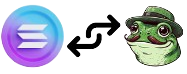
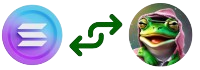
responsive changes 02

diff --git a/components/custom/Hero.tsx b/components/custom/Hero.tsx
@@ -6,65 +6,56 @@ import CopyToClipboardButton from "./CopyToClipboard";
 import { exchangePlatforms, socialMedia } from "@/data";
 
 const Hero = () => {
-    return (
-        <section
-            className="w-full sm:pb-20 sm:pt-28 flex flex-col sm:flex-row justify-center  gap-5 items-center h-screen"
-            id="about"
-        >
-            <div
-                className=" h-[calc(100vh+320px)] sm:h-screen w-full dark:bg-[#006400] bg-white dark:bg-grid-white/[0.03] bg-grid-black-100/[0.2]
+  return (
+    <section
+      className="w-full pt-16 sm:pb-20 sm:pt-0 xl:pt-20 flex flex-col sm:flex-row justify-center gap-5 items-center overflow-visible"
+      id="about"
+    >
+      <div
+        className=" h-[calc(100vh+24rem)] sm:h-screen w-full dark:bg-[#006400] bg-white dark:bg-grid-white/[0.03] bg-grid-black-100/[0.2]
        absolute top-0 left-0 flex items-center justify-center"
-            >
-                {/* Radial gradient for the container to give a faded look */}
-                <div className="absolute pointer-events-none inset-0 flex items-center justify-center dark:bg-black bg-white [mask-image:radial-gradient(ellipse_at_left,transparent_20%,white)]" />
-            </div>
-            <div id="header-content" className="flex-1 sm:flex-[0.5] lg:flex-1">
-                {/* SpotLights */}
-                {/* <div>
-                    <Spotlight className='-top-40 right-0 md:-right-[40rem] md:top-20 h-screen' fill='white' />
-                    <Spotlight className='top-10 -right-[40rem] h-[40vh] w-[50vw]' fill='white' />
-                    <Spotlight className='top-28 -right-[40rem] h-[40vh] w-[50vw]' fill='white' />
-                </div>
-                <div>
-                    <Spotlight className='-top-40 right-0 md:-right-[70rem] md:top-20 h-screen' spotlightClassname='rotate-90 origin-center' fill='white' />
-                    <Spotlight className='top-10 -right-[70rem] h-[40vh] w-[50vw]' spotlightClassname='rotate-90 origin-center' fill='white' />
-                    <Spotlight className='top-28 -right-[70rem] h-[40vh] w-[40vw]' spotlightClassname='rotate-90 origin-center' fill='white' />
-                </div> */}
-
-                <div className="flex  justify-center relative mt-20 mb-10 w-full px-3">
-                    <div className=" w-full sm:max-w-[89vw] md:max-w-2xl lg:max-w-[60vw] flex flex-col items-center sm:items-start justify-center ">
-                        <TextGenerateEffect
-                            className="text-center sm:text-left text-3xl sm:text-[40px] md:text-5xl lg:text-5xl"
-                            words="The End of Dog, Fox, and Cat Coins. PepeRama is Here to Rule."
-                        />
-                        <p className="text-center sm:text-left md:tracking-wider mb-4 text-lg md:text-lg lg:text-2xl">
-                            Forget the pets of the past—PepeRama is taking over the crypto
-                            jungle.
-                        </p>
-                        <CopyToClipboardButton content="somepasskeytocopy" />
-                        <div className="mt-4 ">
-                            <div className="icons-container flex flex-col sm:flex-row items-center gap-3 lg:gap-6 px-5 py-3 md:px-0 lg:px-0">
-                                {exchangePlatforms.map((profile) => (
-                                    <button
-                                        key={profile.id}
-                                        className="w-full  flex items-center justify-between gap-6 px-7 py-1 rounded-full bg-[#1ED760] font-bold text-white tracking-widest uppercase transform hover:scale-105 hover:bg-[#21e065] transition-colors duration-200"
-                                    >
-                                        <p className="text-sm">{profile.name}</p>
-                                        <div className="relative w-10 aspect-square">
-                                            <Image src={profile.img} alt={profile.img} fill />
-                                        </div>
-                                    </button>
-                                ))}
-                            </div>
-                        </div>
+      >
+        {/* Radial gradient for the container to give a faded look */}
+        <div className="absolute pointer-events-none inset-0 flex items-center justify-center dark:bg-black bg-white [mask-image:radial-gradient(ellipse_at_left,transparent_20%,white)]" />
+      </div>
+      <div id="header-content" className="flex-[0.6] sm:flex-[0.5] lg:flex-1">
+        <div className="flex justify-center relative sm:pt-16 w-full px-3">
+          <div className=" w-full sm:max-w-[89vw] md:max-w-2xl lg:max-w-[60vw] flex flex-col items-center sm:items-start justify-center ">
+            <TextGenerateEffect
+              className="text-center sm:text-left text-3xl sm:text-[40px] md:text-5xl lg:text-5xl xl:text-6xl"
+              words="The End of Dog, Fox, and Cat Coins. PepeRama is Here to Rule."
+            />
+            <p className="text-center sm:text-left md:tracking-wider mb-4 text-lg md:text-lg lg:text-2xl xl:text-4xl">
+              Forget the pets of the past—PepeRama is taking over the crypto
+              jungle.
+            </p>
+            <CopyToClipboardButton content="somepasskeytocopy" />
+            <div className="mt-4 ">
+              <div className="icons-container flex flex-col sm:flex-row items-center gap-3 lg:gap-6 px-5 py-3 md:px-0 lg:px-0">
+                {exchangePlatforms.map((profile) => (
+                  <button
+                    key={profile.id}
+                    className="w-full  flex items-center justify-between gap-6 px-7 py-1 rounded-full bg-[#1ED760] font-bold text-white tracking-widest uppercase transform hover:scale-105 hover:bg-[#21e065] transition-colors duration-200"
+                  >
+                    <p className="text-sm">{profile.name}</p>
+                    <div className="relative w-10 aspect-square">
+                      <Image src={profile.img} alt={profile.img} fill />
                     </div>
-                </div>
+                  </button>
+                ))}
+              </div>
             </div>
-            <div id="header-coin-img" className="relative m-3 flex-1 aspect-square sm:h-3/4 lg:flex-1 lg:aspect-[9/16]">
-                <Image id="coin-img" alt="peperama coin" src="/peperama.jpg" fill />
-            </div>
-        </section>
-    );
+          </div>
+        </div>
+      </div>
+      <div
+        id="header-coin-img"
+        className="relative w-full m-auto max-w-80 h-96 lg:h-[400px] xl:max-w-96 xl:h-[500px] "
+      >
+        <Image id="coin-img" alt="peperama coin" src="/peperama.jpg" fill />
+      </div>
+    </section>
+  );
 };
 
 export default Hero;

diff --git a/components/custom/ApproachUs.tsx b/components/custom/ApproachUs.tsx
@@ -4,14 +4,15 @@ import React from "react";
 import { AnimatePresence, motion } from "framer-motion";
 import { CanvasRevealEffect } from "@/components/ui/canvas-reveal-effect";
 import Image from "next/image";
+import { cn } from "@/utils/cn";
 
 const ApproachUs = () => {
   return (
     <section className="w-full py-20 ">
-      <h1 className="heading !text-[4rem]">
+      <h1 className="heading">
         How <span className="text-[#006400]">To Buy?</span>
       </h1>
-      <div className="py-20 flex flex-col lg:flex-row items-center justify-center gap-4">
+      <div className="py-10 flex flex-col lg:flex-row items-center justify-center gap-10">
         <Card
           title="Create a Wallet"
           icon={<AceternityIcon icon="/phantomLogo.png" />}
@@ -37,7 +38,7 @@ const ApproachUs = () => {
         </Card>
         <Card
           title="Switch SOL for PPM"
-          icon={<AceternityIcon icon="/swapImg.png" />}
+          icon={<AceternityIcon icon="/swap.png" className="w-40 h-20" />}
           description="switch SOL for PPM. We have ZERO taxes so you don’t need to worry about buying with a specific slippage, although you may need to use slippage during times of market volatility."
         >
           <CanvasRevealEffect
@@ -66,7 +67,7 @@ const Card = ({
     <div
       onMouseEnter={() => setHovered(true)}
       onMouseLeave={() => setHovered(false)}
-      className="border border-black/[0.2] group/canvas-card flex items-center justify-center dark:border-white/[0.2]  max-w-sm w-full mx-auto p-4 relative h-[30rem] lg:w-[35rem] rounded-3xl"
+      className="border border-black/[0.2] group/canvas-card flex items-center justify-center dark:border-white/[0.2]  max-w-sm w-full mx-auto p-4 relative h-[24rem] md:h-[30rem] lg:w-[35rem] rounded-3xl"
     >
       <Icon className="absolute h-6 w-6 -top-3 -left-3 dark:text-white text-black" />
       <Icon className="absolute h-6 w-6 -bottom-3 -left-3 dark:text-white text-black" />
@@ -86,7 +87,7 @@ const Card = ({
       </AnimatePresence>
 
       <div className="relative z-20">
-        <div className="text-center group-hover/canvas-card:-translate-y-4 absolute top-1/2 left-1/2 -translate-x-1/2 -translate-y-1/2 group-hover/canvas-card:opacity-0 transition duration-200 w-16  mx-auto flex items-center justify-center">
+        <div className="text-center group-hover/canvas-card:-translate-y-4 absolute top-1/2 left-1/2 -translate-x-1/2 -translate-y-1/2 group-hover/canvas-card:opacity-0 transition duration-200 w-auto  mx-auto flex items-center justify-center">
           {icon}
         </div>
         <h2 className="dark:text-white opacity-0 group-hover/canvas-card:opacity-100 relative z-10 text-black mt-4  font-bold group-hover/canvas-card:text-white group-hover/canvas-card:-translate-y-2 transition duration-200 text-center text-3xl">
@@ -102,14 +103,14 @@ const Card = ({
 
 export default ApproachUs;
 
-const AceternityIcon = ({ order, icon }: { order?: string, icon: string }) => {
+const AceternityIcon = ({ order, icon, className }: { order?: string, icon: string, className?: string }) => {
   return (
     <div>
       <button className="relative inline-flex h-60  overflow-hidden rounded-full p-[1px] focus:outline-none focus:ring-2 focus:ring-slate-400 focus:ring-offset-2 focus:ring-offset-slate-50">
 
         {/* <span className="absolute inset-[-1000%] animate-[spin_2s_linear_infinite] bg-[conic-gradient(from_90deg_at_50%_50%,#E2CBFF_0%,#393BB2_50%,#E2CBFF_100%)]" /> */}
         <div className="inline-flex h-full w-full cursor-pointer items-center justify-center rounded-full font-bold text-white backdrop-blur-3xl text-2xl p-3 capitalize">
-          <div className="relative w-20 h-20">
+          <div className={cn("relative w-20 h-20", className)}>
             <Image alt="icon" src={icon} fill />
           </div>
           {order}

diff --git a/components/custom/Navbar.tsx b/components/custom/Navbar.tsx
@@ -3,45 +3,48 @@ import React, { useState } from "react";
 import { HoveredLink, Menu } from "../ui/navbar-menu";
 import { cn } from "@/utils/cn";
 import Image from "next/image";
-import Logo from "@/public/peperama.jpg";
+import Logo from "@/public/icon.png";
 import { socialMedia } from "@/data";
+import Link from "next/link";
 
 export default function Navbar() {
-    return (
-        <div className="relative w-full flex items-center justify-center">
-            <NavbarC className="top-2 w-[95%]" />
-        </div>
-    );
+  return (
+    <div className="relative w-full flex items-center justify-center">
+      <NavbarC className="top-2 w-[95%]" />
+    </div>
+  );
 }
 
 function NavbarC({ className }: { className?: string }) {
-    const [active, setActive] = useState<string | null>(null);
-    return (
-        <div
-            className={cn(
-                "fixed top-4 inset-x-0 w-full max-w-2xl mx-auto z-50",
-                className
-            )}
-        >
-            <Menu setActive={setActive}>
-                <div id="left" className="flex items-center justify-center gap-3">
-                    <div className="brand-logo mr-3 sm:mr-8 w-6 sm:w-8 aspect-square">
-                        <Image alt="logo" src={Logo} />
-                    </div>
-                    <HoveredLink href="#">Buy</HoveredLink>
-                    <HoveredLink href="#">Chart</HoveredLink>
-                </div>
-                <div id="right" className="flex items-center gap-3 sm:gap-4 lg:gap-6">
-                    {socialMedia.map((profile) => (
-                        <div
-                            key={profile.id}
-                            className="relative w-8 sm:w-10 aspect-square cursor-pointer flex justify-center items-center backdrop-filter backdrop-blur-lg saturate-150 bg-opacity-75 bg-black-200 rounded-lg border border-black-300"
-                        >
-                            <Image src={profile.img} alt={profile.img} fill />
-                        </div>
-                    ))}
-                </div>
-            </Menu>
+  const [active, setActive] = useState<string | null>(null);
+  return (
+    <div
+      className={cn(
+        "fixed top-4 inset-x-0 w-full max-w-2xl mx-auto z-50",
+        className
+      )}
+    >
+      <Menu setActive={setActive}>
+        <div id="left" className="flex items-center justify-center gap-3">
+          <div className="brand-logo mr-3 sm:mr-8 w-6 sm:w-8 aspect-square">
+            <Image alt="logo" src={Logo} />
+          </div>
+          <HoveredLink href="#">Buy</HoveredLink>
+          <HoveredLink href="#">Chart</HoveredLink>
         </div>
-    );
+        <div id="right" className="flex items-center gap-3 sm:gap-4 lg:gap-6">
+          {socialMedia.map((profile) => (
+            <div
+              key={profile.id}
+              className="relative w-8 sm:w-10 aspect-square cursor-pointer flex justify-center items-center backdrop-filter backdrop-blur-lg saturate-150 bg-opacity-75 bg-black-200 rounded-lg border border-black-300"
+            >
+              <Link href={profile.href} target="_blank">
+                <Image src={profile.img} alt={profile.img} fill />
+              </Link>
+            </div>
+          ))}
+        </div>
+      </Menu>
+    </div>
+  );
 }

diff --git a/components/custom/Footer.tsx b/components/custom/Footer.tsx
@@ -2,13 +2,14 @@ import React from "react";
 import MagicButton from "../ui/MagicButton";
 import { FaLocationArrow } from "react-icons/fa";
 import { socialMedia } from "@/data";
+import Link from "next/link";
 
 type Props = {};
 
 const Footer = (props: Props) => {
   return (
-    <footer className="w-full pb-10 mb-[100px] md:mb-5" id="contact">
-      <div className="w-full absolute left-0 -bottom-72 min-h-96">
+    <footer className="w-full " id="contact">
+      <div className="w-full absolute left-0 -bottom-40 min-h-80">
         <img
           src="/footer-grid.svg"
           alt=""
@@ -21,7 +22,8 @@ const Footer = (props: Props) => {
           profits to the next level?
         </h1>
         <p className="text-white-200 text-lg md:mt-10 my-5 text-center">
-          Buy out <span className="text-3xl text-[#21e065]">PepeRama</span> today and let&apos;s have fun together!
+          Buy out <span className="text-3xl text-[#21e065]">PepeRama</span>{" "}
+          today and let&apos;s have fun together!
         </p>
         <a href="mailto:pratiknavlani7572@gmail.com">
           <MagicButton
@@ -42,7 +44,14 @@ const Footer = (props: Props) => {
               key={profile.id}
               className="w-20 h-20 cursor-pointer flex justify-center items-center backdrop-filter backdrop-blur-lg saturate-150 bg-opacity-75 bg-black-200 rounded-lg border border-black-300"
             >
-              <img src={profile.img} alt={profile.img} width={48} height={48} />
+              <Link href={profile.href} target="_blank">
+                <img
+                  src={profile.img}
+                  alt={profile.img}
+                  width={48}
+                  height={48}
+                />
+              </Link>
             </div>
           ))}
         </div>

diff --git a/app/page.tsx b/app/page.tsx
@@ -7,13 +7,12 @@ const ApproachUs = dynamic(() => import('@/components/custom/ApproachUs'))
 const Clients = dynamic(() => import('@/components/custom/Clients'))
 const Experience = dynamic(() => import('@/components/custom/Experience'))
 const Footer = dynamic(() => import('@/components/custom/Footer'))
-import { navItems } from "@/data";
 import Navbar from "@/components/custom/Navbar";
 
 export default function Home() {
   return (
-    <main className="relative flex justify-center flex-col mx-auto ">
-      <div className="max-w-7xl w-full m-auto lg:px-10">
+    <main className="relative flex justify-center flex-col mx-auto">
+      <div className="max-w-7xl w-full m-auto px-3 sm:px-8 lg:px-10">
         <Navbar />
         <Hero />
         {/* <Grid /> */}

diff --git a/components/ui/navbar-menu.tsx b/components/ui/navbar-menu.tsx
@@ -70,7 +70,7 @@ export const Menu = ({
     return (
         <nav
             onMouseLeave={() => setActive(null)} // resets the state
-            className="relative rounded-full border border-transparent dark:bg-black dark:border-white/[0.2] bg-white shadow-input flex justify-between space-x-4 p-4 sm:p-5 "
+            className="relative rounded-full border border-transparent dark:bg-black dark:border-white/[0.2] bg-white shadow-input flex justify-between space-x-4 p-4 sm:p-2 sm:px-4 "
         >
             {children}
         </nav>

diff --git a/data/index.ts b/data/index.ts
@@ -205,18 +205,20 @@ export const socialMedia = [
   {
     id: 1,
     img: "/telegram.svg",
+    href: "https://t.me/peperamacoin",
   },
   {
     id: 2,
     img: "/twitter.svg",
+    href: "https://x.com/peperamacoin?t=2begI4urn8Phs1GKd39JBA&s=09",
   },
 ];
 
 export const exchangePlatforms = [
   {
     id: 1,
-    name: "Phantom",
-    img: "/phantomLogo.png",
+    name: "Raydium",
+    img: "/raydium.png",
   },
   {
     id: 2,

diff --git a/app/globals.css b/app/globals.css
@@ -80,7 +80,7 @@
 
 @layer utilities {
   .heading {
-    @apply font-bold text-4xl md:text-5xl text-center;
+    @apply font-bold text-3xl md:text-5xl text-center;
   }
 
   .black-gradient {
